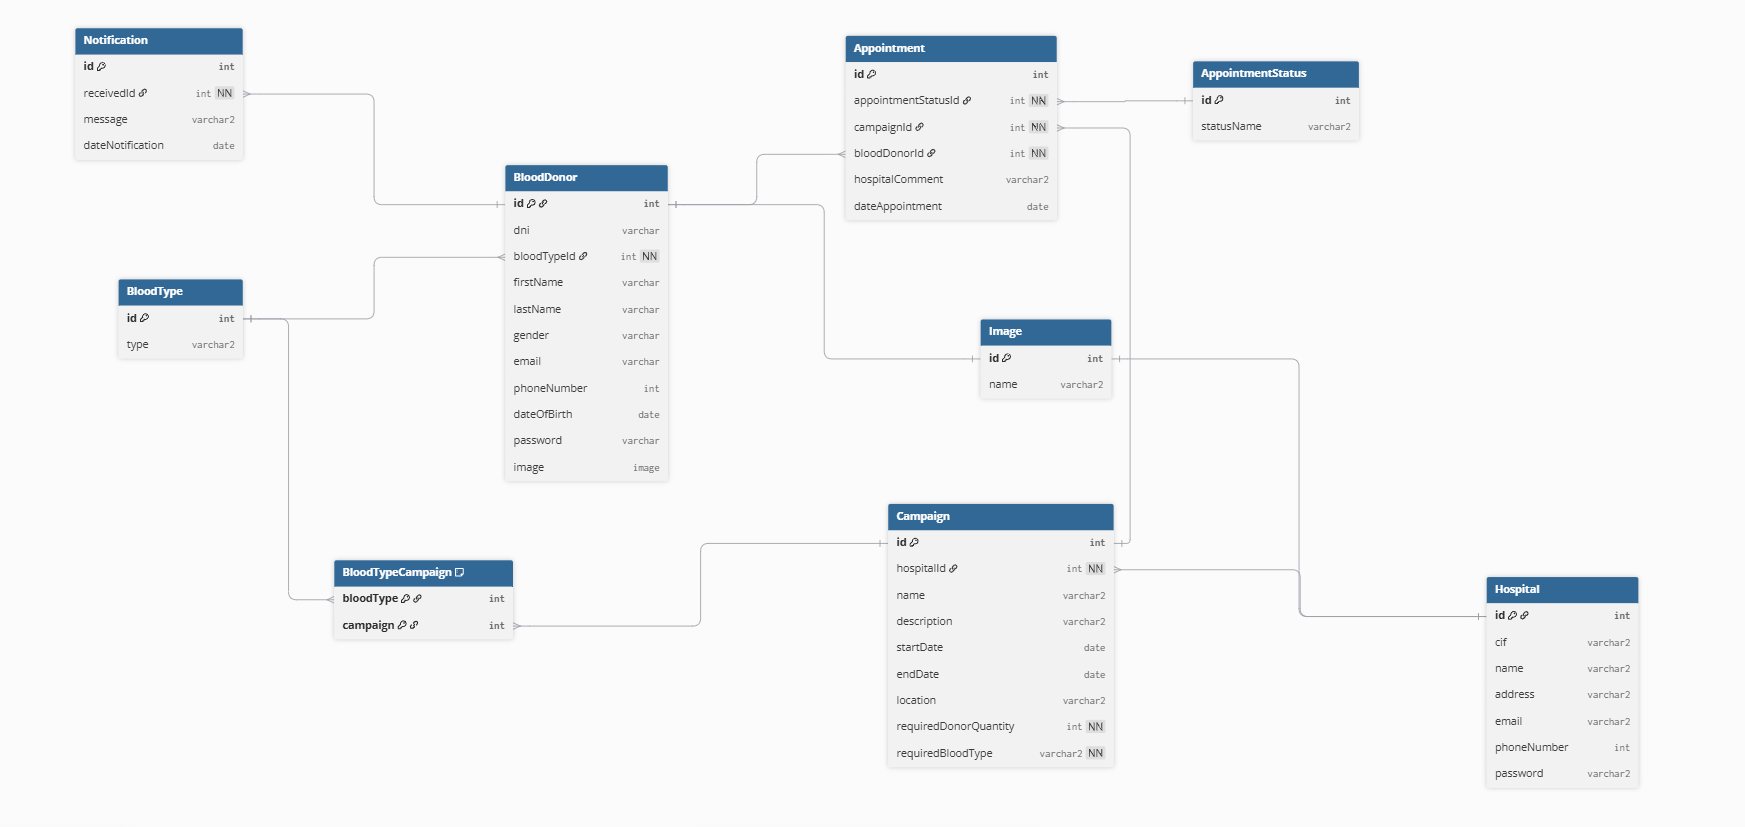
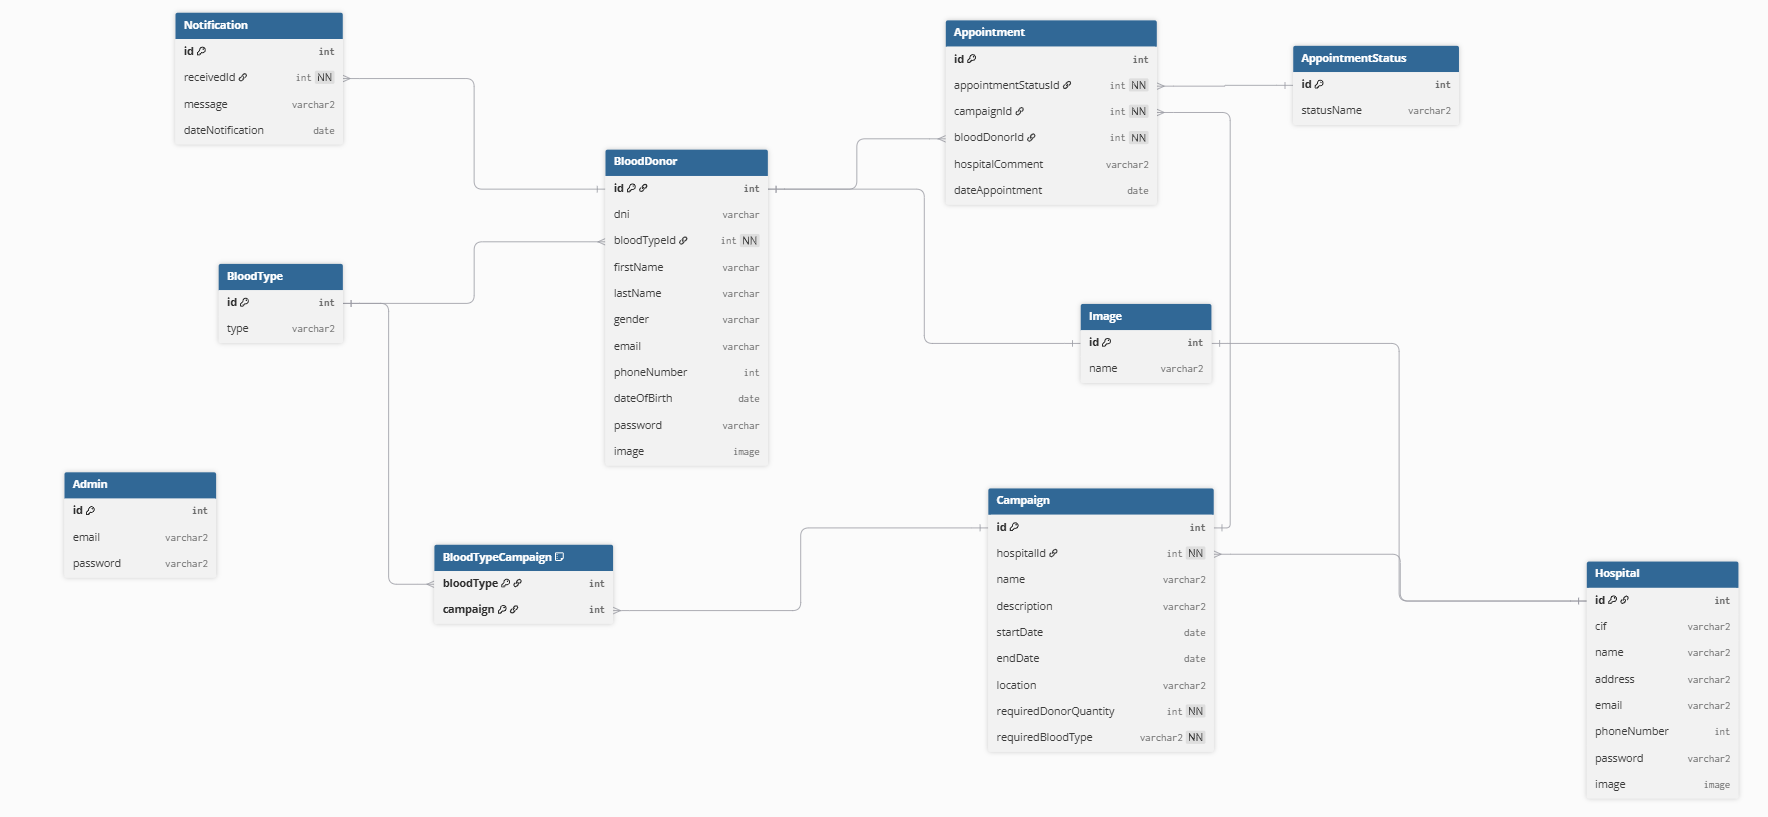
Update README and update diagrams again

diff --git a/backend/src/main/java/com/xiojuandawt/blood4life/entities/Admin.java b/backend/src/main/java/com/xiojuandawt/blood4life/entities/Admin.java
@@ -1,0 +1,53 @@
+package com.xiojuandawt.blood4life.entities;
+
+import jakarta.persistence.*;
+
+@Entity
+@Table(name = "admin")
+public class Admin {
+
+  @Id
+  @GeneratedValue(strategy = GenerationType.IDENTITY)
+  private Integer id;
+
+  private String emaill;
+  private String password;
+
+  public Admin() {
+  }
+
+  public Admin(Integer id, String emaill, String password) {
+    this.id = id;
+    this.emaill = emaill;
+    this.password = password;
+  }
+
+  public Admin(String emaill, String password) {
+    this.emaill = emaill;
+    this.password = password;
+  }
+
+  public Integer getId() {
+    return this.id;
+  }
+
+  public void setId(Integer id) {
+    this.id = id;
+  }
+
+  public String getEmaill() {
+    return this.emaill;
+  }
+
+  public void setEmaill(String emaill) {
+    this.emaill = emaill;
+  }
+
+  public String getPassword() {
+    return this.password;
+  }
+
+  public void setPassword(String password) {
+    this.password = password;
+  }
+}

diff --git a/backend/src/main/java/com/xiojuandawt/blood4life/dto/AdminDTO.java b/backend/src/main/java/com/xiojuandawt/blood4life/dto/AdminDTO.java
@@ -1,0 +1,35 @@
+package com.xiojuandawt.blood4life.dto;
+
+public class AdminDTO {
+
+  private Integer id;
+  private String email;
+
+  public AdminDTO() {
+  }
+
+  public AdminDTO(String email) {
+    this.email = email;
+  }
+
+  public AdminDTO(Integer id, String email) {
+    this.id = id;
+    this.email = email;
+  }
+
+  public Integer getId() {
+    return this.id;
+  }
+
+  public void setId(Integer id) {
+    this.id = id;
+  }
+
+  public String getEmail() {
+    return this.email;
+  }
+
+  public void setEmail(String email) {
+    this.email = email;
+  }
+}

diff --git a/backend/src/main/java/com/xiojuandawt/blood4life/repositories/AdminRepository.java b/backend/src/main/java/com/xiojuandawt/blood4life/repositories/AdminRepository.java
@@ -1,0 +1,14 @@
+package com.xiojuandawt.blood4life.repositories;
+
+
+import com.xiojuandawt.blood4life.entities.Admin;
+import org.springframework.data.repository.CrudRepository;
+import org.springframework.stereotype.Repository;
+
+import java.util.Optional;
+
+@Repository
+public interface AdminRepository extends CrudRepository<Admin, Integer> {
+
+  Optional<Admin> findByEmail(String email);
+}

diff --git a/backend/src/main/java/com/xiojuandawt/blood4life/controllers/AuthController.java b/backend/src/main/java/com/xiojuandawt/blood4life/controllers/AuthController.java
@@ -134,7 +134,7 @@ public class AuthController {
 
       return ResponseEntity.ok()
           .header(HttpHeaders.SET_COOKIE, jwtCookie.toString())
-          .body(Map.of("status", "OK", "message", "Login successful"));
+          .body(response);
 
     } catch (IllegalArgumentException e) {
       return errorResponse(e.getMessage(), HttpStatus.BAD_REQUEST);

diff --git a/README.md b/README.md
@@ -29,17 +29,9 @@ availability for those who need it.
 * Interface design: [![Figma](https://img.shields.io/badge/-Figma-F24E1E?style=flat&logo=figma&logoColor=white)](https://www.figma.com/)
 * Versions control: [![Sourcetree](https://img.shields.io/badge/-Sourcetree-0052CC?style=flat&logo=sourcetree&logoColor=white)](https://www.sourcetreeapp.com/)
 
-## ERD
+## Diagrams and deployment documentation
 
-<img src="docs/images/ERD.png" alt="Diagrama entidad-relación" width="600">
-
-## Use case diagram
-
-<img src="docs/images/use-case-diagram.png" alt="Diagrama de casos de uso" width="600">
-
-## Class diagram
-
-<img src="docs/images/class-diagram.png" alt="Classes diagram" width="600">
+- [![Docs](https://img.shields.io/badge/-Docs-437291?style=flat&logoColor=white)](https://github.com/xiomi94/blood4life/tree/main/docs)
 
 # Backend
 
